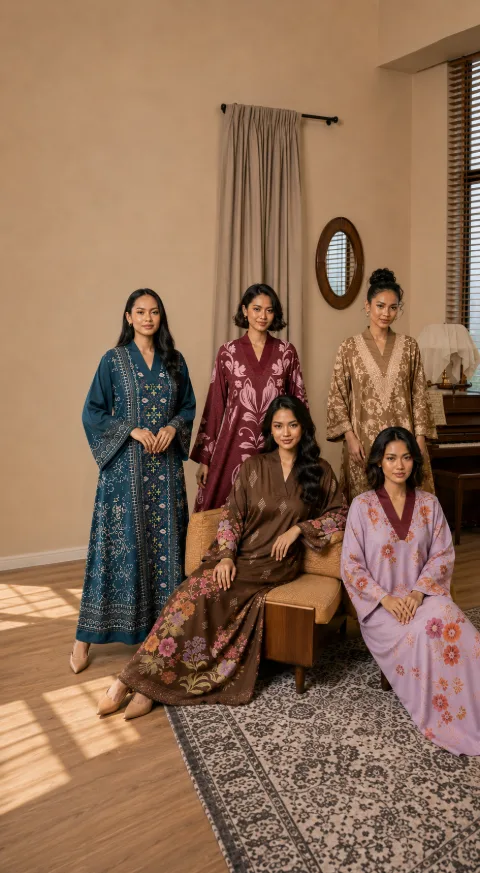
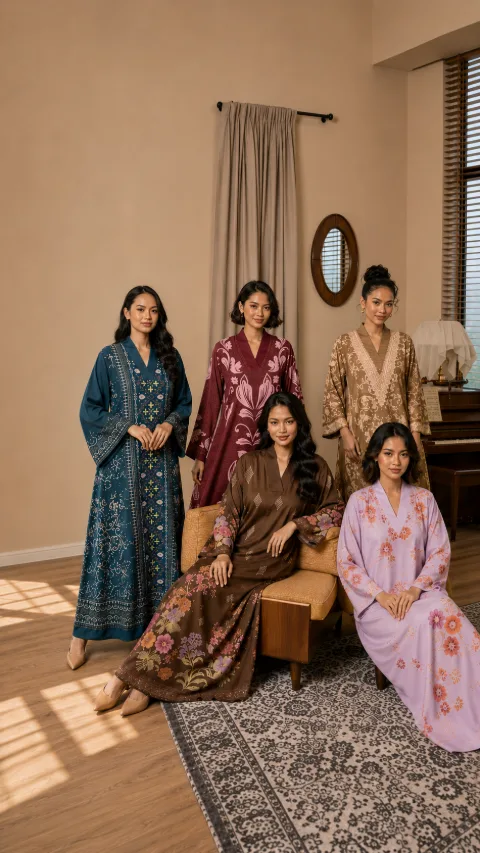
New mobile hero master (v3)
Tighter framing of the five-look group, so the prints read at phone
size. Renders at 480/941 with preload and picture sources updated.

diff --git a/landing/index.html b/landing/index.html
@@ -22,8 +22,8 @@
 <link rel="stylesheet" href="css/hoor.css">
 
 <link rel="preload" as="image" media="(max-width: 899px)" fetchpriority="high"
-      href="assets/img/hero_mobile-930.webp"
-      imagesrcset="assets/img/hero_mobile-480.webp 480w, assets/img/hero_mobile-930.webp 930w" imagesizes="100vw">
+      href="assets/img/hero_mobile-941.webp"
+      imagesrcset="assets/img/hero_mobile-480.webp 480w, assets/img/hero_mobile-941.webp 941w" imagesizes="100vw">
 <link rel="preload" as="image" media="(min-width: 900px)" fetchpriority="high"
       href="assets/img/hero_desktop-1400.webp"
       imagesrcset="assets/img/hero_desktop-900.webp 900w, assets/img/hero_desktop-1400.webp 1400w, assets/img/hero_desktop-1672.webp 1672w" imagesizes="100vw">
@@ -69,7 +69,7 @@
[1 lines of base64/hex data omitted]
         <picture>
           <source media="(max-width: 899px)" sizes="100vw"
-                  srcset="assets/img/hero_mobile-480.webp 480w, assets/img/hero_mobile-930.webp 930w">
+                  srcset="assets/img/hero_mobile-480.webp 480w, assets/img/hero_mobile-941.webp 941w">
           <img class="loaded" src="assets/img/hero_desktop-1400.webp" sizes="100vw"
                srcset="assets/img/hero_desktop-900.webp 900w, assets/img/hero_desktop-1400.webp 1400w, assets/img/hero_desktop-1672.webp 1672w"
                alt="The Batik Dolu-Dolu collection: five prints worn together in a Kuala Lumpur apartment"
